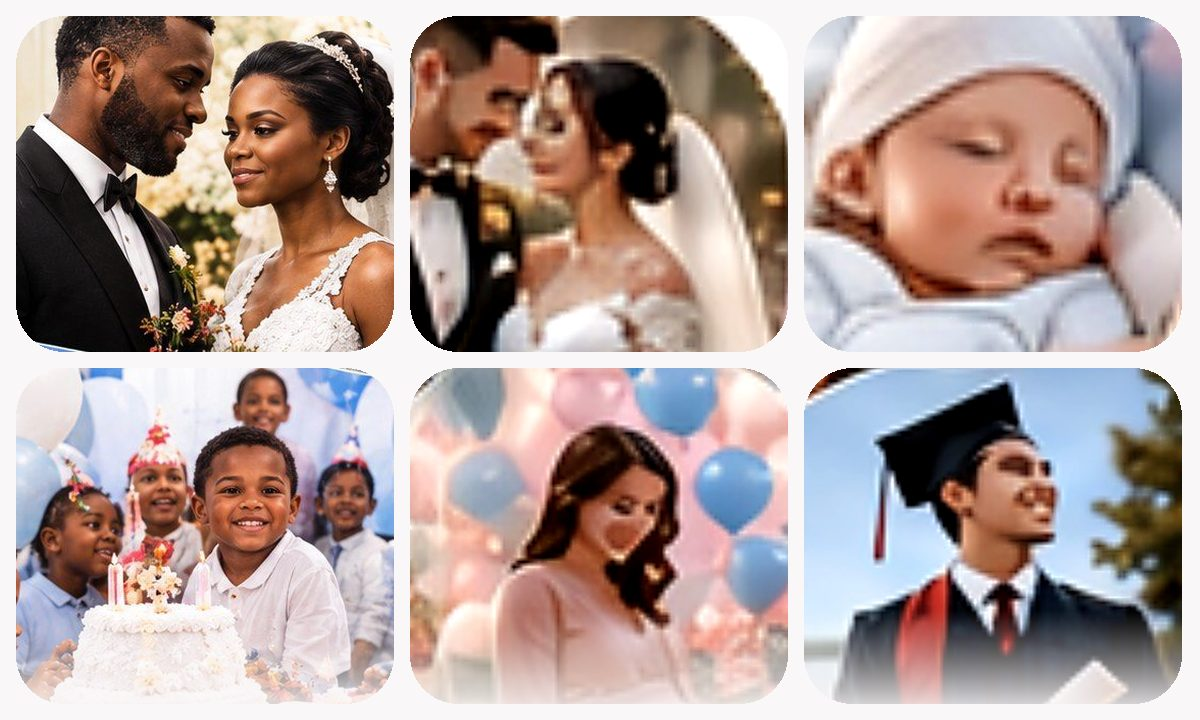
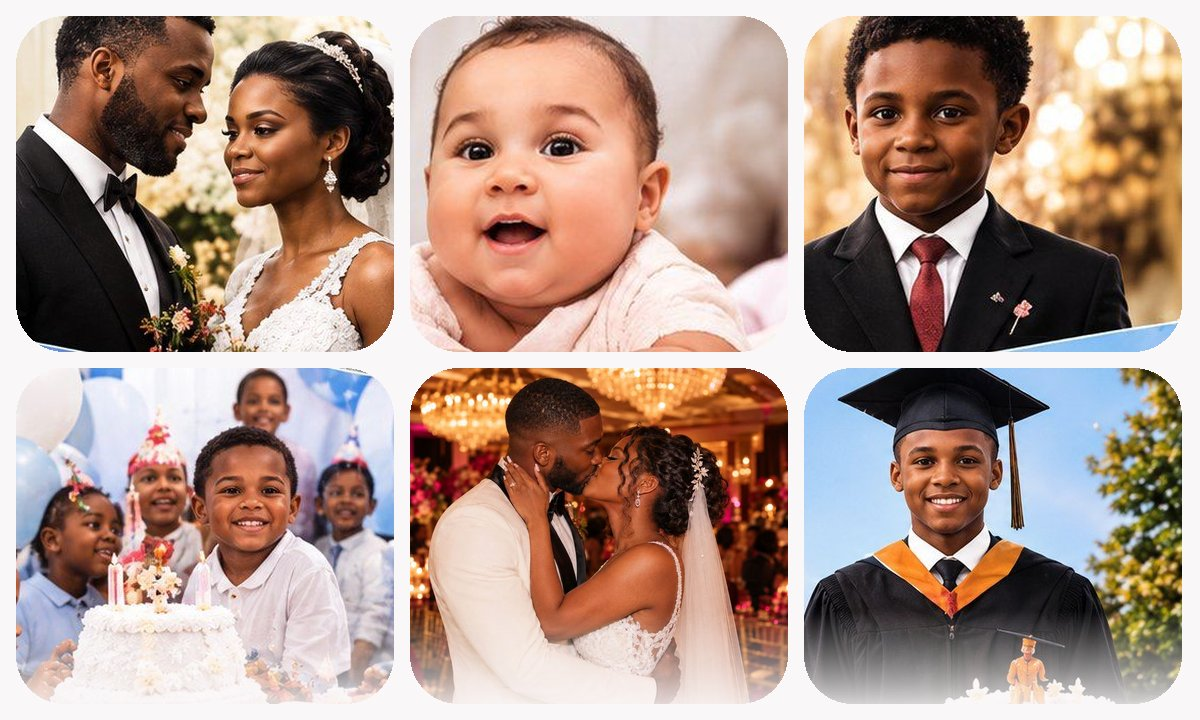
Page d'accueil : collage en photos haute définition uniquement
Claude-Session: https://claude.ai/code/session_01DZD1fyPbKcUBTkn1qnKi7H

diff --git a/public/index.html b/public/index.html
@@ -26,7 +26,7 @@
 </head>
 <body>
   <main class="container" style="max-width:480px">
-    <img class="hero-collage" src="/img/maquette/collage.jpg?v=4" alt="Mariage, baptême, anniversaire, remise de diplôme : tous vos moments">
+    <img class="hero-collage" src="/img/maquette/collage.jpg?v=5" alt="Mariage, baptême, anniversaire, remise de diplôme : tous vos moments">
 
     <p style="text-align:center;margin:0">
       <span class="logo logo-lg"><img src="/img/logo.png" alt=""><span>MaFel<b>i</b>za</span></span>
